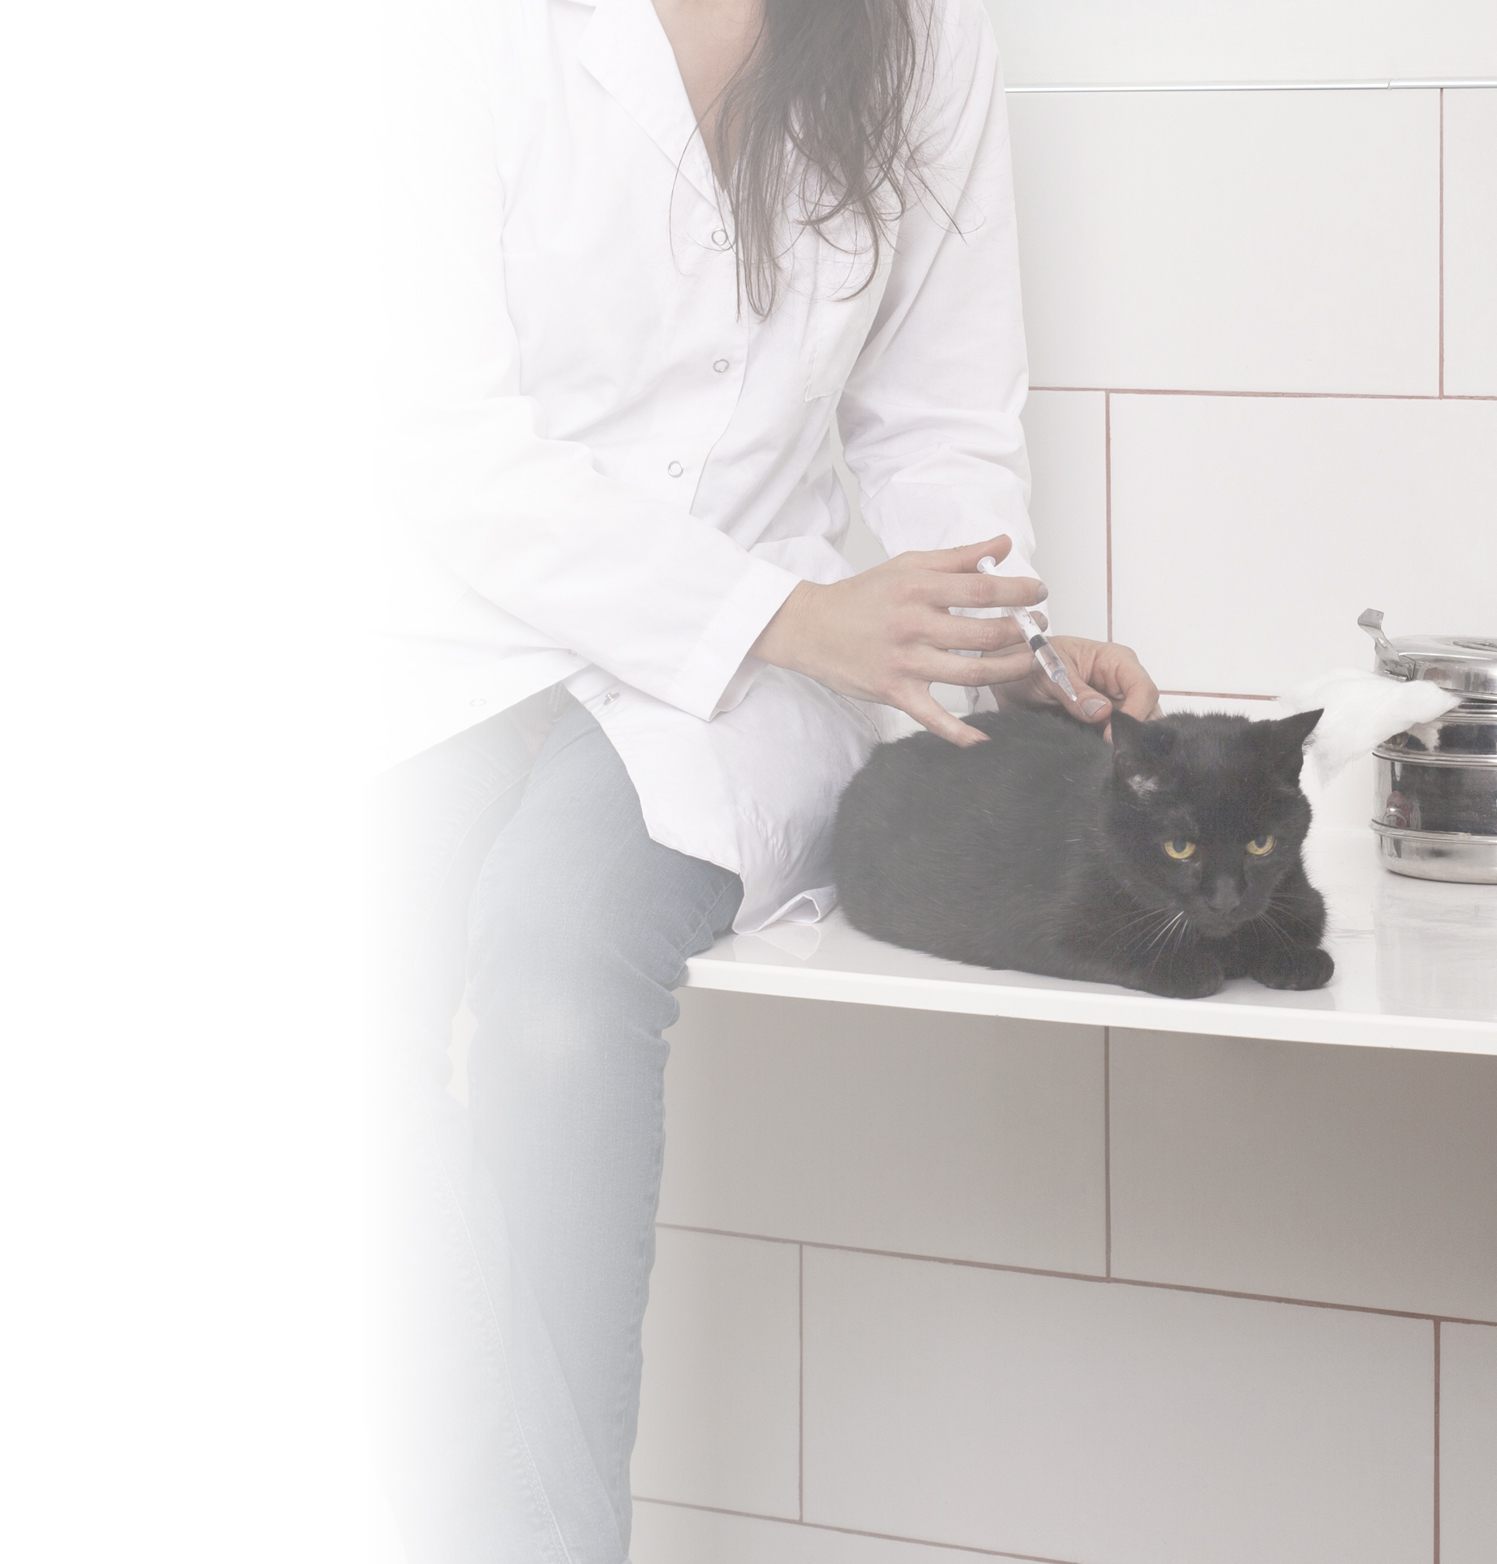
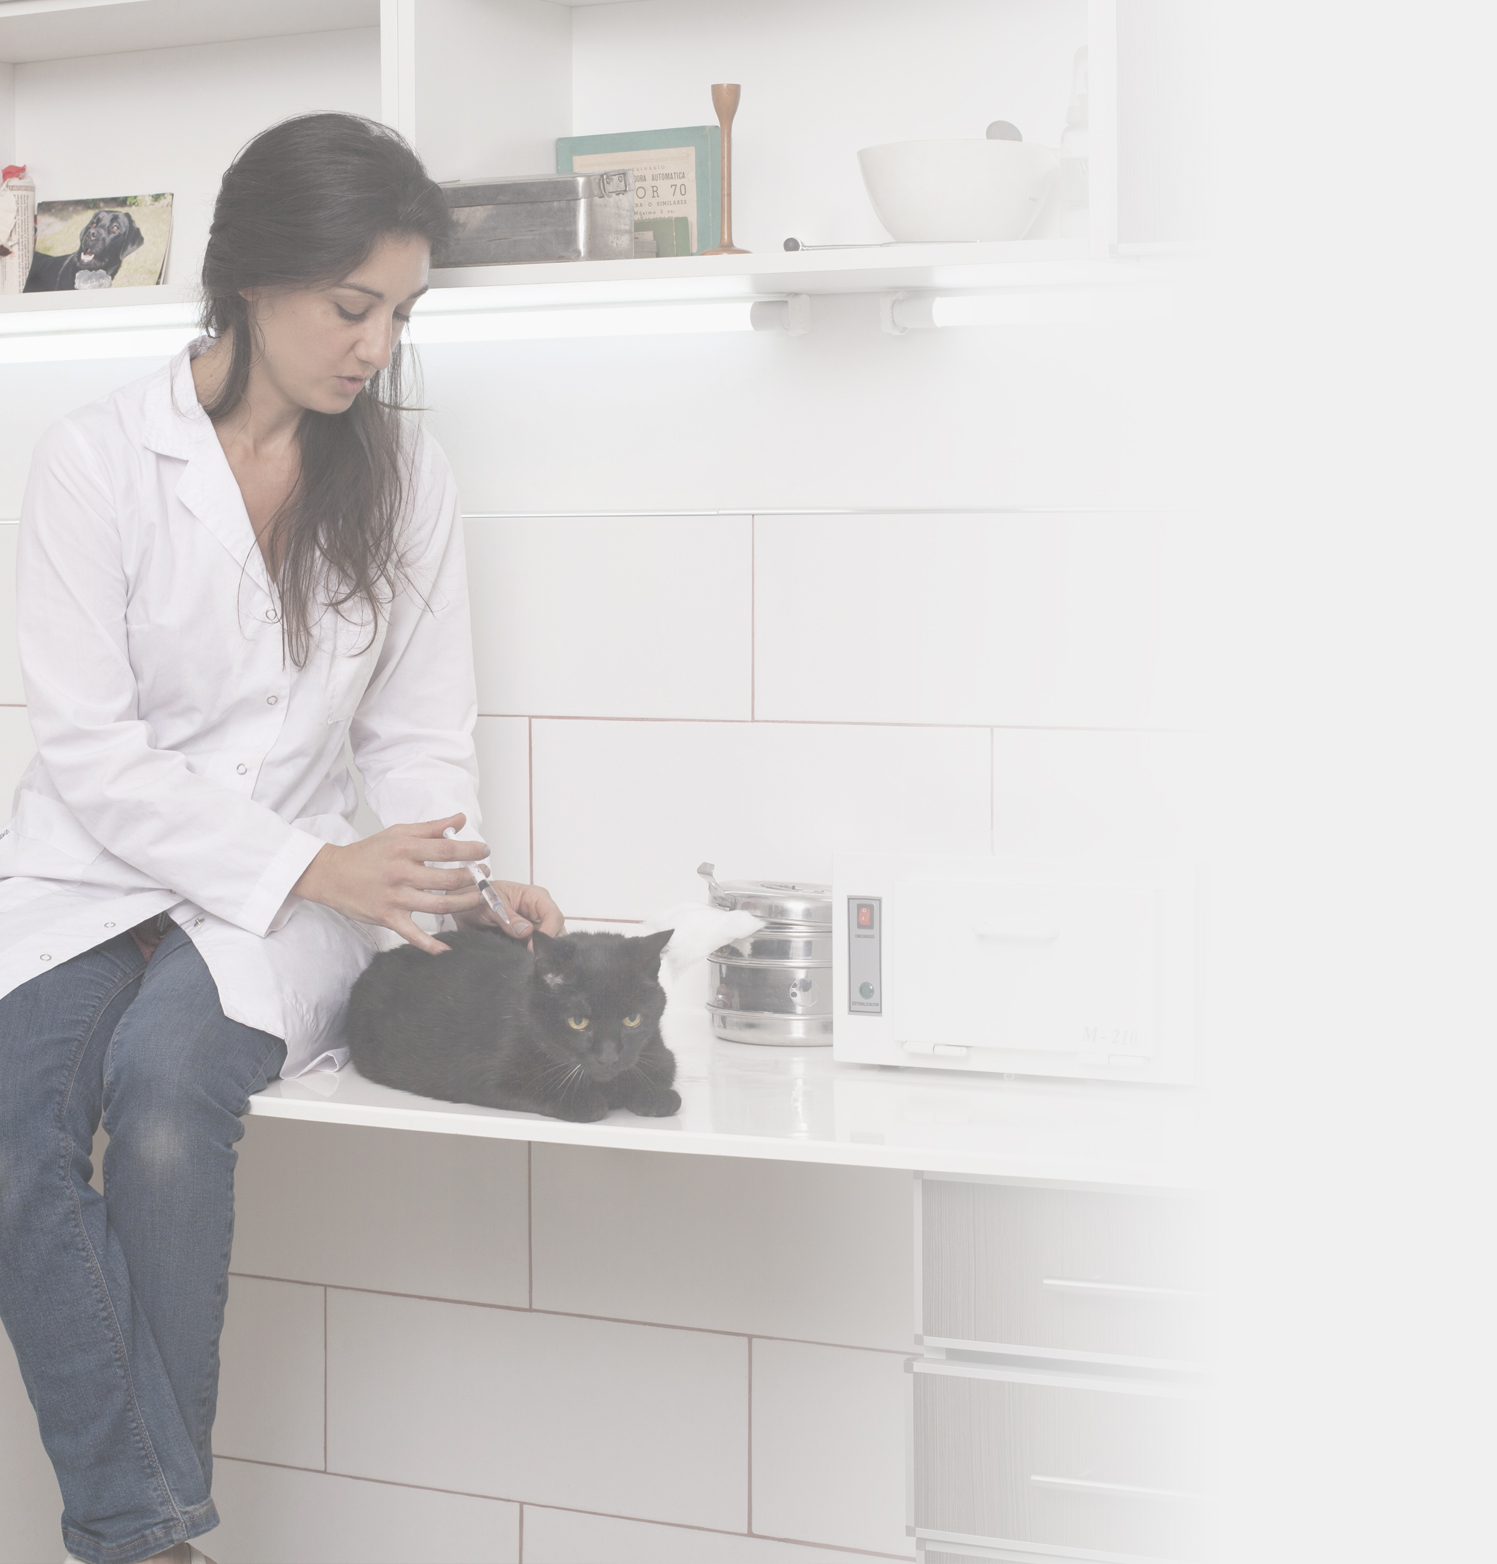
consultorio

diff --git a/index.html b/index.html
@@ -505,12 +505,14 @@
     </section>
 
     <section id="consultorio" class="mbv">
-      <div class="container-fluid">
+      <div class="container">
         <div class="row">
-          <div class="col-md-12">
+          <div class="col-md-12 col-sm-12 offset-lg-1">
             <div class="block text-center">
               <h2 class="section-subtitle">CONSULTORIO</h2>
-              <p>El tiempo y el espacio destinados a la consulta promueven el desarrollo de un vínculo de confianza con
+              <br />
+              <p>
+                El tiempo y el espacio destinados a la consulta promueven el desarrollo de un vínculo de confianza con
                 los pacientes
                 para que puedan expresarse libremente en un ambiente de respeto. Una consulta dinámica facilita una
                 revisación clínica
@@ -526,14 +528,28 @@
         </div>
       </div>
     </section>
-    <section id="consultorio2" class="call-to-action2 bg-4 section-sm overly2">
-      <div class="container">
+
+    <section id="consultorio2" class="feature2">
+      <div class="container-fluid">
         <div class="row">
-          <div class="col-md-12">
+          <div class="col-md-5 fondo"></div>
+          <div class="col-md-6 texto offset-md-1">
+            <p>El tiempo y el espacio destinados a la consulta promueven el desarrollo de un vínculo de confianza con
+              los pacientes
+              para que puedan expresarse libremente en un ambiente de respeto. Una consulta dinámica facilita una
+              revisación clínica
+              completa y exhaustiva e intervenir con fluidez en el diagnóstico y tratamiento.<br />
+              <br />
+              El consultorio cuenta
+              con un laboratorio
+              que nos permite desarrollar métodos diagnósticos específicos de medicina biológica y aplicaciones
+              terapéuticas
+              inmediatas.</p>
           </div>
         </div>
       </div>
     </section>
+
 
 
 

diff --git a/css/style.css b/css/style.css
@@ -2236,46 +2236,27 @@ font header .navbar-default .navbar-nav li a:hover {
   background-attachment: fixed;
 }
 
-.bg-4 {
-  background-image: url("../images/consultorio-01.png");
-  background-size: cover;
-  background-repeat: no-repeat;
-  background-attachment: fixed;
-  max-height: 400px;
-}
 
 #consultorio {
-  padding-top: 90px;
-  text-align: justify;
+  padding-top: 50px;
+}
+
+@media (min-width:769px) {
+  #consultorio2 .texto {
+    padding-top: 150px;
+  }
 }
 
 #consultorio2 .fondo {
   background-image: url("../images/consultorio.jpg");
-  background-position: right center;
-  background-attachment: inicial;
+  background-position: left center;
+  background-attachment: initial;
   background-repeat: no-repeat;
   background-size: cover;
   height: 500px;
 }
 
-.call-to-action2 {
-  padding: 200px 0px;
-  text-align: center;
-}
-
-.overly2:before, .page-title:before, .slider:before {
-  content: "";
-  position: absolute;
-  left: 0;
-  top: 0;
-  bottom: 0;
-  right: 0;
-  width: 100%;
-  height: 100%;
-  opacity: 0.8;
-}
-
-.feature2 {
+#consultorio2 .feature2 {
   background-position: center center;
   display: block;
   position: relative;
@@ -2284,10 +2265,9 @@ font header .navbar-default .navbar-nav li a:hover {
   background-size: cover;
 }
 
-@media (min-width:769px) {
-  #consultorio2 .texto {
-    padding-top: 100px;
-  }
+#consultorio2 {
+  background-color: #F0F0F0;
+  padding: 0px;
 }
 
 #arte2 {
@@ -2295,6 +2275,10 @@ font header .navbar-default .navbar-nav li a:hover {
   padding-bottom: 30px;
   text-align: left;
   background-color: #353240;
+  color: #ffffff;
+}
+
+#arte2 p {
   color: #ffffff;
 }
 
